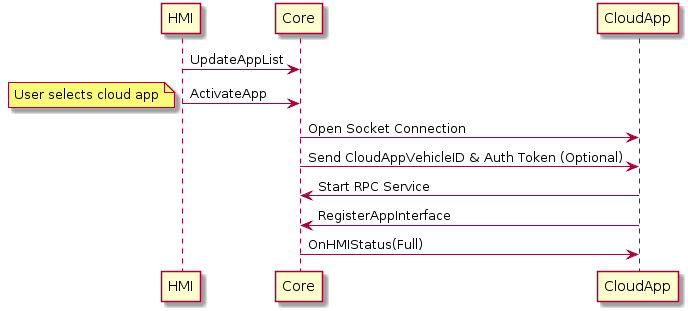
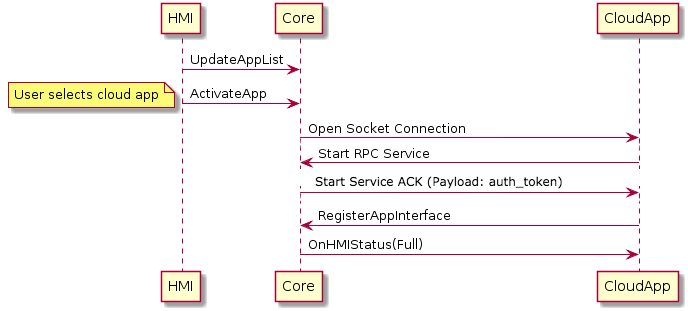
Revise Cloud App Proposal Part 2 (#663)
* Update proposal 0158 with revisions

Revisions include usage of OEM App store for app selection and authentication, retry connection attempts, opening websocket connections only when an app is activated, usage of a hashed VIN.

* Update 0158-cloud-app-transport-adapter.md

Update typos

* Proposal Revisions

* Fix typos

* Update “CONNECTING/RETRY” typo

* Revise Cloud App Proposal part 2

Add information related to:
- AppExitReason/Disconnects initiated by HMI
- Specifying auth_token should be included in start service ack payload.
- Add GetCloudAppProperties RPC
- Add endpoint param to CloudAppProperties
- Add note about policy security and functional group structure
- Add app_icon url to be used by systemRequest RPCs

* Update max length of urls

* Add protocol information

* Remove protocolVersion field

* Comment updates

* Fix typos.

Changed region(s): [[0.4273, 0.463, 0.9462, 0.6367]]

diff --git a/proposals/0158-cloud-app-transport-adapter.md b/proposals/0158-cloud-app-transport-adapter.md
@@ -32,8 +32,8 @@ This proposal will detail a possible solution for allowing  SDL-enabled cloud ap
 7. User connects phone to headunit, OEM app registers and sends updated list of enabled cloud apps and corresponding secret tokens.
 8. Core stores secret tokens in the policy table and updates the `enabled` field of the cloud apps listed in the policy table.
 9. Core sends update app list to HMI to display cloud apps' availability
-10. User activates the cloud app, Core gets the websocket (WS) endpoint from policy table and opens a websocket connection passing the secret token supplied by the OEM app and the cloudAppVehicleID
-11. Cloud app verifies the cloudAppVehicleID and secret token are valid and accepts the connection
+10. User activates the cloud app, Core gets the websocket (WS) endpoint from policy table and opens a websocket connection.
+11. Cloud app sends a start service request, and Core responds with a `Start Service ACK` with the auth_token in the payload.
 
 Note: This is one possible implementation of enabling and authenticating cloud apps using an OEM cloud app store. Please refer to other example use cases.
 
@@ -71,7 +71,7 @@ This is what the app_policies section of a policy table that includes a cloud ap
 +               "certificate" : "-----BEGIN CERTIFICATE-----\n" ...,
 +               "enabled" : false,
 +               "auth_token" : "ABCD12345",
-+               "cloud_transport_type: "WSS",
++               "cloud_transport_type": "WSS",
 +               "hybrid_app_preference": "MOBILE"
             }
         }
@@ -94,8 +94,19 @@ The `hybrid_app_preference` field is used to specify the user's preference for u
 
 Mobile API Changes
 
-Add new RPC "SetCloudAppProperties". This RPC can be used by an OEM "App Store" in order to enable/disable a cloud app from appearing on the SDL HMI. This RPC will also deliver neccesary authentication information if the app requires it. 
+Add new RPCs `SetCloudAppProperties` and `GetCloudAppProperties`.
+
+`SetCloudAppProperties` can be used by an OEM "App Store" in order to enable/disable a cloud app from appearing on the SDL HMI. This RPC will also deliver neccesary authentication information if the app requires it.
+
+`GetCloudAppProperties` can be used by an OEM "App Store" in order to retrieve the current cloud app information upon startup and after these properties are modified by other means (such as a PTU).
+
 ```
+    <enum name="FunctionID" internal_scope="base" since="1.0">
+        ...
+        <element name="SetCloudAppPropertiesID" value="50" hexvalue="32" since="5.x" />
+        <element name="GetCloudAppPropertiesID" value="51" hexvalue="33" since="5.x" />
+    <enum>
+    ...
     <enum name="HybridAppPreference">
         <description>Enumeration for the user's preference of which app type to use when both are available</description>
         <element name="MOBILE" />
@@ -103,16 +114,13 @@ Add new RPC "SetCloudAppProperties". This RPC can be used by an OEM "App Store" 
         <element name="BOTH">
     </enum>
 
-    <function name="SetCloudAppProperties" functionID="SetCloudAppPropertiesID" messagetype="request">
-        <description>
-            RPC used to enable/disable a cloud application and set authentication data
-        </description> 
+    <struct name="CloudAppProperties" since="5.x">
         <param name="appName" type="String" maxlength="100" mandatory="true"></param>
         <param name="appID" type="String" maxlength="100" mandatory="true"></param>
         <param name="enabled" type="Boolean" mandatory="false">
             <description>If true, cloud app will be included in HMI RPC UpdateAppList</description>
         </param>
-        <param name="cloudAppAuthToken" type="String" maxlength="100" mandatory="false">
+        <param name="cloudAppAuthToken" type="String" maxlength="65535" mandatory="false">
             <description>Used to authenticate websocket connection on app activation</description>
         </param>
         <param name="cloudTransportType" type="String" maxlength="100" mandatory="false">
@@ -121,10 +129,53 @@ Add new RPC "SetCloudAppProperties". This RPC can be used by an OEM "App Store" 
         <param name="hybridAppPreference" type="HybridAppPreference" maxlength="100" mandatory="false">
             <description>Specifies the user preference to use the cloud app version or mobile app version when both are available</description>
         </param>
+        <param name="endpoint" type="String" maxlength="65535" mandatory="false"></param>
+    </struct>
+
+    <function name="SetCloudAppProperties" functionID="SetCloudAppPropertiesID" messagetype="request" since="5.x">
+        <description>
+            RPC used to enable/disable a cloud application and set authentication data
+        </description>
+        <param name="properties" type="CloudAppProperties" mandatory="true">
+            <description> The new cloud application properties </description>
+        </param>
     </function>
 
-    <function name="SetCloudAppProperties" functionID="RegisterAppInterfaceID" messagetype="response">
-        <description>The response to registerAppInterface</description>
+    <function name="SetCloudAppProperties" functionID="RegisterAppInterfaceID" messagetype="response" since="5.x">
+        <description>The response to SetCloudAppProperties</description>
+        <param name="success" type="Boolean" platform="documentation" mandatory="true">
+            <description> true if successful; false if failed </description>
+        </param>
+        <param name="resultCode" type="Result" platform="documentation" mandatory="true">
+            <description>See Result</description>
+            <element name="SUCCESS"/>
+            <element name="INVALID_DATA"/>
+            <element name="OUT_OF_MEMORY"/>
+            <element name="TOO_MANY_PENDING_REQUESTS"/>
+            <element name="GENERIC_ERROR"/>
+            <element name="DUPLICATE_NAME"/>
+            <element name="TOO_MANY_APPLICATIONS"/>
+            <element name="APPLICATION_REGISTERED_ALREADY"/>
+            <element name="UNSUPPORTED_VERSION"/>
+            <element name="WRONG_LANGUAGE"/>
+            <element name="DISALLOWED"/>
+            <element name="WARNINGS"/>
+            <element name="RESUME_FAILED"/>
+        </param>
+    </function>
+
+    <function name="GetCloudAppProperties" functionID="SetCloudAppPropertiesID" messagetype="request" since="5.x">
+        <description>
+            RPC used to get the current properties of a cloud application
+        </description> 
+        <param name="appID" type="String" maxlength="100" mandatory="true"></param>
+    </function>
+
+    <function name="GetCloudAppProperties" functionID="RegisterAppInterfaceID" messagetype="response" since="5.x">
+        <description>The response to GetCloudAppProperties</description>
+        <param name="properties" type="CloudAppProperties" mandatory="false">
+            <description> The requested cloud application properties </description>
+        </param>
         <param name="success" type="Boolean" platform="documentation" mandatory="true">
             <description> true if successful; false if failed </description>
         </param>
@@ -158,7 +209,7 @@ Update to UpdateAppList description
 Update HMIApplication Struct 
 ```
 <struct name="HMIApplication">
-    ....
+    ...
     <param name="isCloudApplication" type="Boolean" mandatory="false"></param>
     <param name="cloudConnectionStatus" type="CloudConnectionStatus" mandatory="false"></param>
 </struct>
@@ -192,11 +243,37 @@ If the websocket connection attempt is successful, Core will send the CloudConne
 
 #### Transport Adapter Connection Flow
 
-App Activation: User selects the cloud app from the app list on the HMI and the websocket connection to the cloud server is opened and auth information is sent.
+App Activation: User selects the cloud app from the app list on the HMI and the websocket connection to the cloud server is opened. After the cloud app sends a start rpc service request, Core will respond with a `Start Service ACK` with the auth_token included in the payload.
 
 ![alt text](../assets/proposals/0158-cloud-app-transport-adapter/cloud_app_activation.png "App Activation")
 
 The behavior of displaying a cloud app before registration is to prevent unnecessary websocket connections when an app is not in use. Also if an application is put into hmi status NONE, then the websocket connection will be closed until the user activates the application again.
+
+### Disconnecting Websocket Connection
+
+If a cloud app connection is open and the app is put into HMI level `NONE`, the cloud transport adapter should disconnect the websocket connection. The connection will be recreated once the app is activated again. 
+
+Additionaly there should be a new ApplicationExitReason added to the HMI API to allow for the HMI to manage cloud app connections.
+
+```
+<enum name="ApplicationExitReason">
+  <element name="DRIVER_DISTRACTION_VIOLATION" >
+    <description>By getting this value, SDL puts the named app to NONE HMILevel</description>
+  </element>
+  <element name="USER_EXIT" >
+    <description>By getting this value, SDL puts the named app to NONE HMILevel</description>
+  </element>
+  <element name="UNAUTHORIZED_TRANSPORT_REGISTRATION">
+    <description>By getting this value, SDL unregisters the named application</description>
+  </element>
+  <element name="UNSUPPORTED_HMI_RESOURCE">
+    <description>By getting this value, SDL unregisters the named application</description>
+  </element>
++  <element name="CLOSE_CLOUD_CONNECTION">
++    <description>By getting this value, SDL puts the named app to NONE HMILevel. Used by the HMI to close a cloud app connection.</description>
++  </element>
+</enum>
+```
 
 ### CloudAppVehicleID
 
@@ -353,9 +430,18 @@ enum DeviceType {
 #### Websocket Client Transport Adapter
 Core will need a new transport adapter that initiates websocket client connections to a remote endpoint. I suggest creating a transport adapter that integrates this library: [Boost Beast](https://github.com/boostorg/beast) for handling the websocket connections.  
 
+### Protocol Changes
+
+#### 3.1.3 Payloads
+
+###### 3.1.3.2.2 Start Service ACK
+| Tag Name| Type | Description |
+|------------|------|-------------|
+|authToken|String|This token is used by a cloud application to authenticate a user account associated with the vehicle.|
+
 ### Policies
 
-app_policies section of policy table related classes must be expanded to support new optional endpoint and ssl_certificate fields. 
+app_policies section of policy table related classes must be expanded to support new cloud app related fields. 
 
 types.h
 ```
@@ -367,11 +453,13 @@ struct PolicyBase : CompositeType {
   Enum<HmiLevel> default_hmi;
   Boolean keep_context;
   Boolean steal_focus;
-  Optional<String<0, 255> > cloud_app_endpoint;
+  Optional<String<0, 65535> > endpoint;
   Optional<String<0, 65535> > certificate;
-  Optional Boolean enabled;
+  Optional<Boolean> enabled;
+  Optional<String<0, 65535> > auth_token;
   Optional<String<0, 255> > cloud_transport_type;
-  Optional Enum<HybridAppPreference> hybrid_app_preference;
+  Optional<Enum<HybridAppPreference>> hybrid_app_preference;
+  Optional<String<0, 65535> > app_icon_url;
 
 ```
 
@@ -389,7 +477,7 @@ policy_table_interface_ext.xml
         <param name="memory_kb" type="Integer" minvalue="1" maxvalue="65225" mandatory="false"/>
         <param name="watchdog_timer_ms" type="Integer" minvalue="1"
             maxvalue="65225" mandatory="false"/>
-        <param name="cloud_app_endpoint", type="String", minlength="0" maxlength="255", mandatory="false">
+        <param name="endpoint", type="String", minlength="0" maxlength="255", mandatory="false">
         <param name="certificate" type="String" minlength="0" maxlength="65535"
             mandatory="false" />
         <param name="enabled" type="Boolean" mandatory="false" />
@@ -398,9 +486,71 @@ policy_table_interface_ext.xml
         <param name="cloud_transport_type" type="String" minlength="0" maxlength="255"
             mandatory="false"/>
         <param name="hybrid_app_preference" type="HybridAppPreference" mandatory="false"/>
+        <param name="app_icon_url" type="String" minlength="0" maxlength="65535" mandatory="false"/>
     </struct>
 ```
 This feature should be supported by both regular and external policy build configurations.
+
+#### Policy Table Functional Group Structuring
+
+For security reasons it is recommended that only a trusted OEM companion app or app store is able to send `SetCloudAppProperties` and `GetCloudAppProperties` requests to Core. This policy is to keep other apps from changing or collecting the app property information of other cloud apps registered in the policy table.
+
+Policy Table Entry:
+```
+"functional_groupings": {
+    ...
+    "AppStore" : {
+        "rpcs":{
+            "SetCloudAppProperties":{
+                "hmi_levels":["BACKGROUND",
+                "FULL",
+                "LIMITED"]
+            }, "GetCloudAppProperties":{
+                "hmi_levels":["BACKGROUND",
+                "FULL",
+                "LIMITED"]
+            }
+        }
+    }
+    ...
+}
+```
+
+#### App Icon URL
+
+In order to show an app icon before the first time a cloud app is connected and registered, Core should use the app's "app_icon_url" parameter stored in the policy table with the onSystemRequest and SystemRequest RPCs to get the image data. This process is similar to how the lock screen image is obtained.
+
+A new RequestType should be added to the Mobile and HMI APIs specific to a cloud app's icon.
+
+
+```
+    <enum name="RequestType" since="3.0">
+        <description>Enumeration listing possible asynchronous requests.</description>
+        <element name="HTTP" />
+        <element name="FILE_RESUME" />
+        <element name="AUTH_REQUEST" />
+        <element name="AUTH_CHALLENGE" />
+        <element name="AUTH_ACK" />
+        <element name="PROPRIETARY" />
+        <element name="QUERY_APPS" />
+        <element name="LAUNCH_APP" />
+        <element name="LOCK_SCREEN_ICON_URL" />
+        <element name="TRAFFIC_MESSAGE_CHANNEL" />
+        <element name="DRIVER_PROFILE" />
+        <element name="VOICE_SEARCH" />
+        <element name="NAVIGATION" />
+        <element name="PHONE" />
+        <element name="CLIMATE" />
+        <element name="SETTINGS" />
+        <element name="VEHICLE_DIAGNOSTICS" />
+        <element name="EMERGENCY" />
+        <element name="MEDIA" />
+        <element name="FOTA" />
+        <element name="OEM_SPECIFIC" since="5.0" />v
++        <element name="APP_ICON_URL" since="5.x" />
+    </enum>   
+```
+
 
 ### SDL Server
 
@@ -427,3 +577,4 @@ If future vehicles will not have dedicated LTE connections, then the mobile devi
 ### Separating Policies and Cloud App Endpoints
 
 A separate server could be developed to maintain cloud app endpoints if we believe that this type of logic and data is outside of the scope of policies.
+
